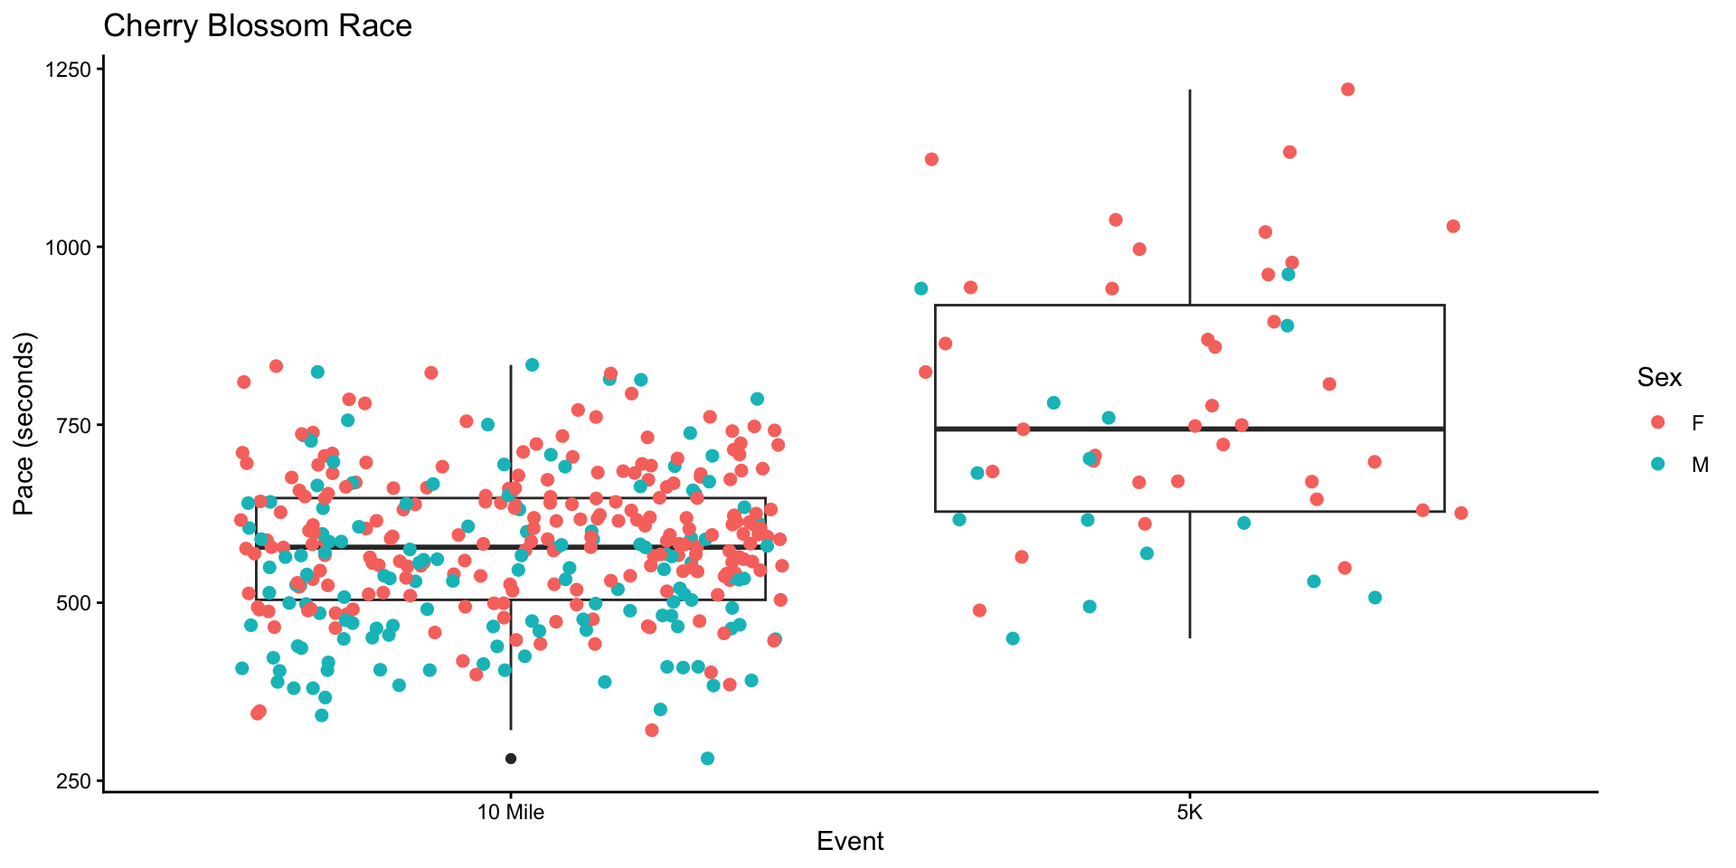
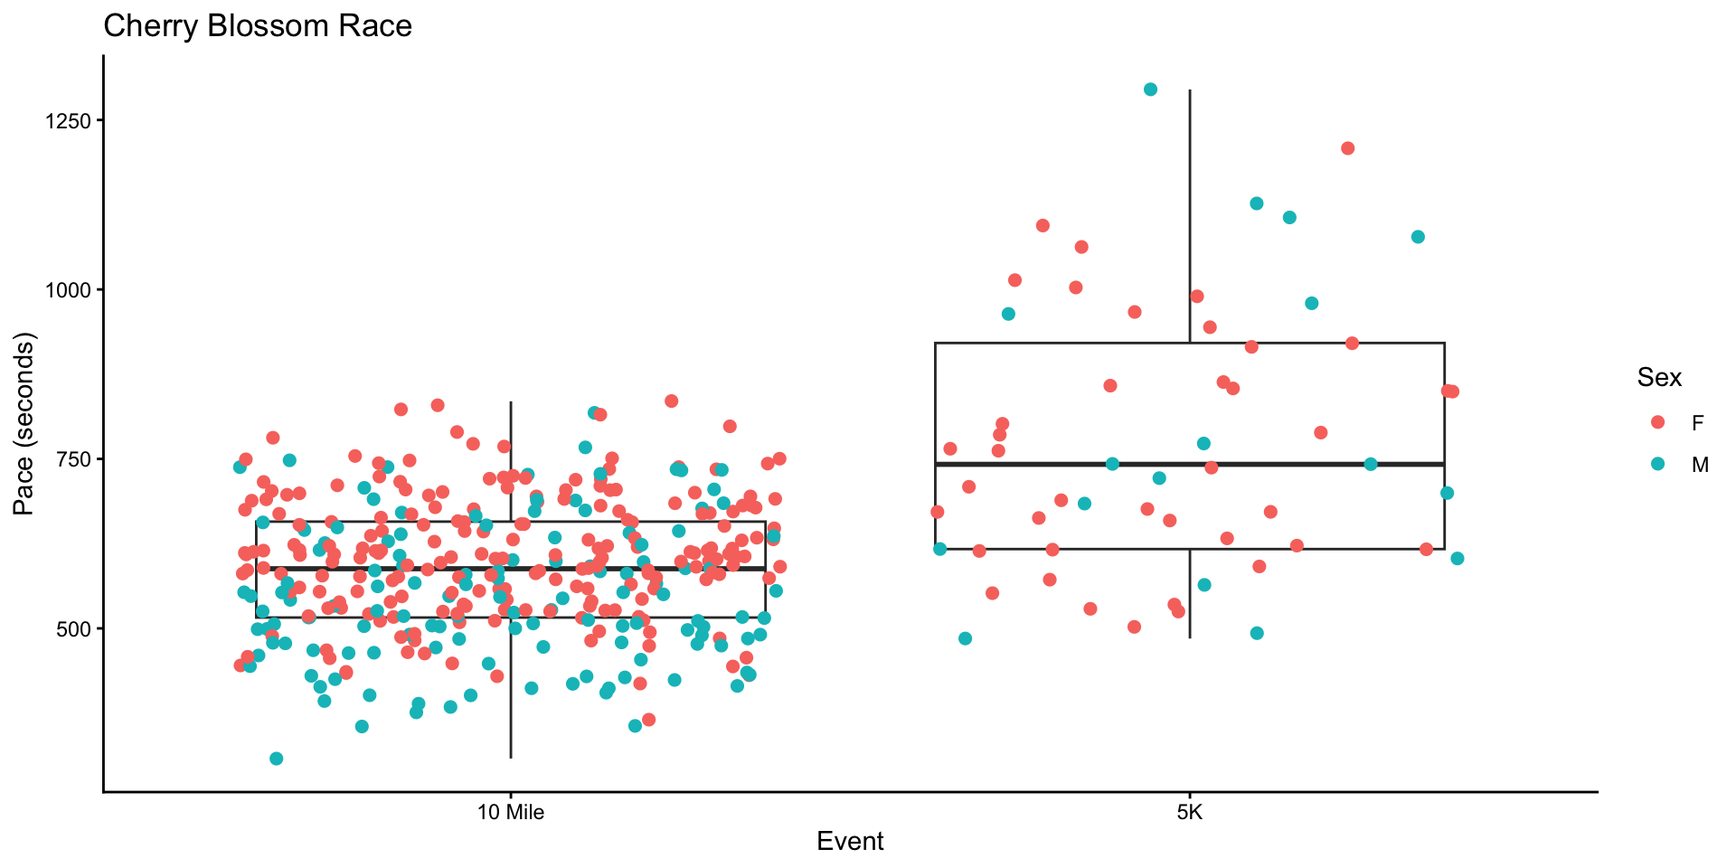
finalizing week 5 slides

diff --git a/getting_started_fall_2026/Session_5.html b/getting_started_fall_2026/Session_5.html
@@ -458,13 +458,13 @@ S. Kelly | Scholar Support and Data Services | Fall 2026
 <div class="cell">
 <div class="sourceCode cell-code" id="cb6"><pre class="sourceCode numberSource r number-lines code-with-copy"><code class="sourceCode r"><span id="cb6-1"><a href=""></a>run17 <span class="sc">|&gt;</span> </span>
 <span id="cb6-2"><a href=""></a>  <span class="fu">group_by</span>(event) <span class="sc">|&gt;</span> </span>
-<span id="cb6-3"><a href=""></a>  <span class="fu">summarize</span>(<span class="at">event_means =</span> <span class="fu">mean</span>(pace_sec, <span class="at">na.rm =</span> T))</span></code><button title="Copy to Clipboard" class="code-copy-button"><i class="bi"></i></button></pre></div>
+<span id="cb6-3"><a href=""></a>  <span class="fu">summarize</span>(<span class="at">event_mean_pace =</span> <span class="fu">mean</span>(pace_sec, <span class="at">na.rm =</span> T))</span></code><button title="Copy to Clipboard" class="code-copy-button"><i class="bi"></i></button></pre></div>
 <div class="cell-output cell-output-stdout">
 <pre><code># A tibble: 2 × 2
-  event   event_means
-  &lt;chr&gt;         &lt;dbl&gt;
-1 10 Mile        586.
-2 5K             763.</code></pre>
+  event   event_mean_pace
+  &lt;chr&gt;             &lt;dbl&gt;
+1 10 Mile            586.
+2 5K                 763.</code></pre>
 </div>
 </div>
 </section>
@@ -507,19 +507,17 @@ S. Kelly | Scholar Support and Data Services | Fall 2026
 <img data-src="Session_5_files/figure-revealjs/unnamed-chunk-7-1.png" width="960" class="r-stretch"></section>
 <section id="what-are-our-grouped-means" class="slide level2">
 <h2>What are our grouped means?</h2>
-<p>Let’s figure out the overall pace for each event.</p>
+<p>Let’s recall the overall pace for each event.</p>
 <div class="cell">
-<div class="sourceCode cell-code" id="cb12"><pre class="sourceCode numberSource r number-lines code-with-copy"><code class="sourceCode r"><span id="cb12-1"><a href=""></a><span class="fu">set.seed</span>(<span class="dv">7834</span>)</span>
-<span id="cb12-2"><a href=""></a>run17 <span class="sc">|&gt;</span> </span>
-<span id="cb12-3"><a href=""></a>  <span class="fu">slice_sample</span>(<span class="at">n =</span> <span class="dv">400</span>) <span class="sc">|&gt;</span></span>
-<span id="cb12-4"><a href=""></a>  <span class="fu">group_by</span>(event) <span class="sc">|&gt;</span> </span>
-<span id="cb12-5"><a href=""></a>  <span class="fu">summarize</span>(<span class="at">group_mean_pace =</span> <span class="fu">mean</span>(pace_sec, <span class="at">na.rm =</span> T))</span></code><button title="Copy to Clipboard" class="code-copy-button"><i class="bi"></i></button></pre></div>
+<div class="sourceCode cell-code" id="cb12"><pre class="sourceCode numberSource r number-lines code-with-copy"><code class="sourceCode r"><span id="cb12-1"><a href=""></a>run17 <span class="sc">|&gt;</span> </span>
+<span id="cb12-2"><a href=""></a>  <span class="fu">group_by</span>(event) <span class="sc">|&gt;</span> </span>
+<span id="cb12-3"><a href=""></a>  <span class="fu">summarize</span>(<span class="at">event_mean_pace =</span> <span class="fu">mean</span>(pace_sec, <span class="at">na.rm =</span> T))</span></code><button title="Copy to Clipboard" class="code-copy-button"><i class="bi"></i></button></pre></div>
 <div class="cell-output cell-output-stdout">
 <pre><code># A tibble: 2 × 2
-  event   group_mean_pace
+  event   event_mean_pace
   &lt;chr&gt;             &lt;dbl&gt;
-1 10 Mile            587.
-2 5K                 778.</code></pre>
+1 10 Mile            586.
+2 5K                 763.</code></pre>
 </div>
 </div>
 </section>
@@ -530,8 +528,8 @@ S. Kelly | Scholar Support and Data Services | Fall 2026
 <span id="cb14-2"><a href=""></a>run17 <span class="sc">|&gt;</span> </span>
 <span id="cb14-3"><a href=""></a>  <span class="fu">slice_sample</span>(<span class="at">n =</span> <span class="dv">400</span>) <span class="sc">|&gt;</span> </span>
 <span id="cb14-4"><a href=""></a>  <span class="fu">ggplot</span>(<span class="fu">aes</span>(<span class="at">x =</span> event, <span class="at">y =</span> pace_sec)) <span class="sc">+</span> <span class="fu">geom_boxplot</span>(<span class="at">fill =</span> <span class="st">"cadetblue"</span>) <span class="sc">+</span></span>
-<span id="cb14-5"><a href=""></a>  <span class="fu">geom_hline</span>(<span class="at">yintercept =</span> <span class="dv">587</span>, <span class="at">color =</span> <span class="st">"maroon"</span>, <span class="at">size =</span> <span class="dv">2</span>) <span class="sc">+</span> </span>
-<span id="cb14-6"><a href=""></a>  <span class="fu">geom_hline</span>(<span class="at">yintercept =</span> <span class="dv">778</span>, <span class="at">color =</span> <span class="st">"orange"</span>, <span class="at">size =</span> <span class="dv">2</span>) </span></code><button title="Copy to Clipboard" class="code-copy-button"><i class="bi"></i></button></pre></div>
+<span id="cb14-5"><a href=""></a>  <span class="fu">geom_hline</span>(<span class="at">yintercept =</span> <span class="dv">586</span>, <span class="at">color =</span> <span class="st">"maroon"</span>, <span class="at">size =</span> <span class="dv">2</span>) <span class="sc">+</span> </span>
+<span id="cb14-6"><a href=""></a>  <span class="fu">geom_hline</span>(<span class="at">yintercept =</span> <span class="dv">763</span>, <span class="at">color =</span> <span class="st">"orange"</span>, <span class="at">size =</span> <span class="dv">2</span>) </span></code><button title="Copy to Clipboard" class="code-copy-button"><i class="bi"></i></button></pre></div>
 
 </div>
 <img data-src="Session_5_files/figure-revealjs/unnamed-chunk-9-1.png" width="960" class="r-stretch"></section>
@@ -550,48 +548,53 @@ S. Kelly | Scholar Support and Data Services | Fall 2026
 <section id="lets-add-the-data-points" class="slide level2">
 <h2>Let’s add the data points</h2>
 <div class="cell">
-<div class="sourceCode cell-code" id="cb16"><pre class="sourceCode numberSource r number-lines code-with-copy"><code class="sourceCode r"><span id="cb16-1"><a href=""></a>run17 <span class="sc">|&gt;</span> </span>
-<span id="cb16-2"><a href=""></a>  <span class="fu">slice_sample</span>(<span class="at">n =</span> <span class="dv">400</span>) <span class="sc">|&gt;</span> </span>
-<span id="cb16-3"><a href=""></a>  <span class="fu">ggplot</span>(<span class="fu">aes</span>(<span class="at">x =</span> event, <span class="at">y =</span> pace_sec)) <span class="sc">+</span> <span class="fu">geom_boxplot</span>(<span class="at">fill =</span> <span class="st">"cadetblue"</span>) <span class="sc">+</span> </span>
-<span id="cb16-4"><a href=""></a>  <span class="fu">geom_jitter</span>()</span></code><button title="Copy to Clipboard" class="code-copy-button"><i class="bi"></i></button></pre></div>
+<div class="sourceCode cell-code" id="cb16"><pre class="sourceCode numberSource r number-lines code-with-copy"><code class="sourceCode r"><span id="cb16-1"><a href=""></a><span class="fu">set.seed</span>(<span class="dv">7834</span>)</span>
+<span id="cb16-2"><a href=""></a>run17 <span class="sc">|&gt;</span> </span>
+<span id="cb16-3"><a href=""></a>  <span class="fu">slice_sample</span>(<span class="at">n =</span> <span class="dv">400</span>) <span class="sc">|&gt;</span> </span>
+<span id="cb16-4"><a href=""></a>  <span class="fu">ggplot</span>(<span class="fu">aes</span>(<span class="at">x =</span> event, <span class="at">y =</span> pace_sec)) <span class="sc">+</span> <span class="fu">geom_boxplot</span>(<span class="at">fill =</span> <span class="st">"cadetblue"</span>) <span class="sc">+</span> </span>
+<span id="cb16-5"><a href=""></a>  <span class="fu">geom_jitter</span>() <span class="sc">+</span> </span>
+<span id="cb16-6"><a href=""></a>  <span class="fu">geom_point</span>(<span class="at">stat =</span> <span class="st">"summary"</span>, <span class="at">shape =</span> <span class="dv">23</span>, <span class="at">size =</span> <span class="dv">7</span>, <span class="at">fill =</span> <span class="st">"maroon"</span>)</span></code><button title="Copy to Clipboard" class="code-copy-button"><i class="bi"></i></button></pre></div>
 
 </div>
 <img data-src="Session_5_files/figure-revealjs/unnamed-chunk-11-1.png" width="960" class="r-stretch"></section>
 <section id="lets-add-color-by-sex" class="slide level2">
 <h2>Let’s add color by sex</h2>
 <div class="cell">
-<div class="sourceCode cell-code" id="cb17"><pre class="sourceCode numberSource r number-lines code-with-copy"><code class="sourceCode r"><span id="cb17-1"><a href=""></a>run17 <span class="sc">|&gt;</span> </span>
-<span id="cb17-2"><a href=""></a>  <span class="fu">slice_sample</span>(<span class="at">n =</span> <span class="dv">400</span>) <span class="sc">|&gt;</span> </span>
-<span id="cb17-3"><a href=""></a>  <span class="fu">ggplot</span>(<span class="fu">aes</span>(<span class="at">x =</span> event, <span class="at">y =</span> pace_sec)) <span class="sc">+</span></span>
-<span id="cb17-4"><a href=""></a>  <span class="fu">geom_boxplot</span>(<span class="at">fill =</span> <span class="st">"transparent"</span>) <span class="sc">+</span> </span>
-<span id="cb17-5"><a href=""></a>  <span class="fu">geom_jitter</span>(<span class="fu">aes</span>(<span class="at">color =</span> sex), <span class="at">size =</span> <span class="dv">2</span>) </span></code><button title="Copy to Clipboard" class="code-copy-button"><i class="bi"></i></button></pre></div>
+<div class="sourceCode cell-code" id="cb17"><pre class="sourceCode numberSource r number-lines code-with-copy"><code class="sourceCode r"><span id="cb17-1"><a href=""></a><span class="fu">set.seed</span>(<span class="dv">7834</span>)</span>
+<span id="cb17-2"><a href=""></a>run17 <span class="sc">|&gt;</span> </span>
+<span id="cb17-3"><a href=""></a>  <span class="fu">slice_sample</span>(<span class="at">n =</span> <span class="dv">400</span>) <span class="sc">|&gt;</span> </span>
+<span id="cb17-4"><a href=""></a>  <span class="fu">ggplot</span>(<span class="fu">aes</span>(<span class="at">x =</span> event, <span class="at">y =</span> pace_sec)) <span class="sc">+</span></span>
+<span id="cb17-5"><a href=""></a>  <span class="fu">geom_boxplot</span>(<span class="at">fill =</span> <span class="st">"transparent"</span>) <span class="sc">+</span> </span>
+<span id="cb17-6"><a href=""></a>  <span class="fu">geom_jitter</span>(<span class="fu">aes</span>(<span class="at">color =</span> sex), <span class="at">size =</span> <span class="dv">2</span>) </span></code><button title="Copy to Clipboard" class="code-copy-button"><i class="bi"></i></button></pre></div>
 
 </div>
 <img data-src="Session_5_files/figure-revealjs/unnamed-chunk-12-1.png" width="960" class="r-stretch"></section>
 <section id="now-labels-and-a-title" class="slide level2">
 <h2>Now labels and a title</h2>
 <div class="cell">
-<div class="sourceCode cell-code" id="cb18"><pre class="sourceCode numberSource r number-lines code-with-copy"><code class="sourceCode r"><span id="cb18-1"><a href=""></a>run17 <span class="sc">|&gt;</span> </span>
-<span id="cb18-2"><a href=""></a>  <span class="fu">slice_sample</span>(<span class="at">n =</span> <span class="dv">400</span>) <span class="sc">|&gt;</span> </span>
-<span id="cb18-3"><a href=""></a>  <span class="fu">ggplot</span>(<span class="fu">aes</span>(<span class="at">x =</span> event, <span class="at">y =</span> pace_sec)) <span class="sc">+</span></span>
-<span id="cb18-4"><a href=""></a>  <span class="fu">geom_boxplot</span>(<span class="at">fill =</span> <span class="st">"transparent"</span>) <span class="sc">+</span> </span>
-<span id="cb18-5"><a href=""></a>  <span class="fu">geom_jitter</span>(<span class="fu">aes</span>(<span class="at">color =</span> sex), <span class="at">size =</span> <span class="dv">2</span>) <span class="sc">+</span></span>
-<span id="cb18-6"><a href=""></a>  <span class="fu">labs</span>(<span class="at">x =</span> <span class="st">"Event"</span>, <span class="at">y =</span> <span class="st">"Pace (seconds)"</span>, </span>
-<span id="cb18-7"><a href=""></a>       <span class="at">title =</span> <span class="st">"Cherry Blossom Race"</span>, <span class="at">color =</span> <span class="st">"Sex"</span>)</span></code><button title="Copy to Clipboard" class="code-copy-button"><i class="bi"></i></button></pre></div>
+<div class="sourceCode cell-code" id="cb18"><pre class="sourceCode numberSource r number-lines code-with-copy"><code class="sourceCode r"><span id="cb18-1"><a href=""></a><span class="fu">set.seed</span>(<span class="dv">7834</span>)</span>
+<span id="cb18-2"><a href=""></a>run17 <span class="sc">|&gt;</span> </span>
+<span id="cb18-3"><a href=""></a>  <span class="fu">slice_sample</span>(<span class="at">n =</span> <span class="dv">400</span>) <span class="sc">|&gt;</span> </span>
+<span id="cb18-4"><a href=""></a>  <span class="fu">ggplot</span>(<span class="fu">aes</span>(<span class="at">x =</span> event, <span class="at">y =</span> pace_sec)) <span class="sc">+</span></span>
+<span id="cb18-5"><a href=""></a>  <span class="fu">geom_boxplot</span>(<span class="at">fill =</span> <span class="st">"transparent"</span>) <span class="sc">+</span> </span>
+<span id="cb18-6"><a href=""></a>  <span class="fu">geom_jitter</span>(<span class="fu">aes</span>(<span class="at">color =</span> sex), <span class="at">size =</span> <span class="dv">2</span>) <span class="sc">+</span></span>
+<span id="cb18-7"><a href=""></a>  <span class="fu">labs</span>(<span class="at">x =</span> <span class="st">"Event"</span>, <span class="at">y =</span> <span class="st">"Pace (seconds)"</span>, </span>
+<span id="cb18-8"><a href=""></a>       <span class="at">title =</span> <span class="st">"Cherry Blossom Race"</span>, <span class="at">color =</span> <span class="st">"Sex"</span>)</span></code><button title="Copy to Clipboard" class="code-copy-button"><i class="bi"></i></button></pre></div>
 
 </div>
 <img data-src="Session_5_files/figure-revealjs/unnamed-chunk-13-1.png" width="960" class="r-stretch"></section>
 <section id="finally-a-quick-theme" class="slide level2">
 <h2>Finally, a quick theme</h2>
 <div class="cell">
-<div class="sourceCode cell-code" id="cb19"><pre class="sourceCode numberSource r number-lines code-with-copy"><code class="sourceCode r"><span id="cb19-1"><a href=""></a>run17 <span class="sc">|&gt;</span> </span>
-<span id="cb19-2"><a href=""></a>  <span class="fu">slice_sample</span>(<span class="at">n =</span> <span class="dv">400</span>) <span class="sc">|&gt;</span> </span>
-<span id="cb19-3"><a href=""></a>  <span class="fu">ggplot</span>(<span class="fu">aes</span>(<span class="at">x =</span> event, <span class="at">y =</span> pace_sec)) <span class="sc">+</span></span>
-<span id="cb19-4"><a href=""></a>  <span class="fu">geom_boxplot</span>(<span class="at">fill =</span> <span class="st">"transparent"</span>) <span class="sc">+</span> </span>
-<span id="cb19-5"><a href=""></a>  <span class="fu">geom_jitter</span>(<span class="fu">aes</span>(<span class="at">color =</span> sex), <span class="at">size =</span> <span class="dv">2</span>) <span class="sc">+</span></span>
-<span id="cb19-6"><a href=""></a>  <span class="fu">labs</span>(<span class="at">x =</span> <span class="st">"Event"</span>, <span class="at">y =</span> <span class="st">"Pace (seconds)"</span>, </span>
-<span id="cb19-7"><a href=""></a>       <span class="at">title =</span> <span class="st">"Cherry Blossom Race"</span>, <span class="at">color =</span> <span class="st">"Sex"</span>) <span class="sc">+</span> </span>
-<span id="cb19-8"><a href=""></a>  <span class="fu">theme_classic</span>()</span></code><button title="Copy to Clipboard" class="code-copy-button"><i class="bi"></i></button></pre></div>
+<div class="sourceCode cell-code" id="cb19"><pre class="sourceCode numberSource r number-lines code-with-copy"><code class="sourceCode r"><span id="cb19-1"><a href=""></a><span class="fu">set.seed</span>(<span class="dv">7834</span>)</span>
+<span id="cb19-2"><a href=""></a>run17 <span class="sc">|&gt;</span> </span>
+<span id="cb19-3"><a href=""></a>  <span class="fu">slice_sample</span>(<span class="at">n =</span> <span class="dv">400</span>) <span class="sc">|&gt;</span> </span>
+<span id="cb19-4"><a href=""></a>  <span class="fu">ggplot</span>(<span class="fu">aes</span>(<span class="at">x =</span> event, <span class="at">y =</span> pace_sec)) <span class="sc">+</span></span>
+<span id="cb19-5"><a href=""></a>  <span class="fu">geom_boxplot</span>(<span class="at">fill =</span> <span class="st">"transparent"</span>) <span class="sc">+</span> </span>
+<span id="cb19-6"><a href=""></a>  <span class="fu">geom_jitter</span>(<span class="fu">aes</span>(<span class="at">color =</span> sex), <span class="at">size =</span> <span class="dv">2</span>) <span class="sc">+</span></span>
+<span id="cb19-7"><a href=""></a>  <span class="fu">labs</span>(<span class="at">x =</span> <span class="st">"Event"</span>, <span class="at">y =</span> <span class="st">"Pace (seconds)"</span>, </span>
+<span id="cb19-8"><a href=""></a>       <span class="at">title =</span> <span class="st">"Cherry Blossom Race"</span>, <span class="at">color =</span> <span class="st">"Sex"</span>) <span class="sc">+</span> </span>
+<span id="cb19-9"><a href=""></a>  <span class="fu">theme_classic</span>()</span></code><button title="Copy to Clipboard" class="code-copy-button"><i class="bi"></i></button></pre></div>
 
 </div>
 <img data-src="Session_5_files/figure-revealjs/unnamed-chunk-14-1.png" width="960" class="r-stretch"></section>
@@ -656,7 +659,7 @@ S. Kelly | Scholar Support and Data Services | Fall 2026
 <h2>Basic Boxplot</h2>
 <div class="cell">
 <div class="sourceCode cell-code" id="cb26"><pre class="sourceCode numberSource r number-lines code-with-copy"><code class="sourceCode r"><span id="cb26-1"><a href=""></a>county <span class="sc">|&gt;</span> </span>
-<span id="cb26-2"><a href=""></a>  <span class="fu">ggplot</span>(<span class="fu">aes</span>(<span class="at">x =</span> state, <span class="at">y =</span> median_hh_income)) <span class="sc">+</span> <span class="fu">geom_boxplot</span>()</span></code><button title="Copy to Clipboard" class="code-copy-button"><i class="bi"></i></button></pre></div>
+<span id="cb26-2"><a href=""></a>  <span class="fu">ggplot</span>(<span class="fu">aes</span>(<span class="at">x =</span> state, <span class="at">y =</span> per_capita_income)) <span class="sc">+</span> <span class="fu">geom_boxplot</span>()</span></code><button title="Copy to Clipboard" class="code-copy-button"><i class="bi"></i></button></pre></div>
 
 </div>
 <img data-src="Session_5_files/figure-revealjs/unnamed-chunk-18-1.png" width="960" class="r-stretch"></section>
@@ -664,21 +667,42 @@ S. Kelly | Scholar Support and Data Services | Fall 2026
 <h2>You can flip the coordinates</h2>
 <div class="cell">
 <div class="sourceCode cell-code" id="cb27"><pre class="sourceCode numberSource r number-lines code-with-copy"><code class="sourceCode r"><span id="cb27-1"><a href=""></a>county <span class="sc">|&gt;</span> </span>
-<span id="cb27-2"><a href=""></a>  <span class="fu">ggplot</span>(<span class="fu">aes</span>(<span class="at">x =</span> state, <span class="at">y =</span> median_hh_income)) <span class="sc">+</span> <span class="fu">geom_boxplot</span>() <span class="sc">+</span> </span>
-<span id="cb27-3"><a href=""></a>  <span class="fu">coord_flip</span>() <span class="sc">+</span> <span class="fu">labs</span>(<span class="at">x =</span> <span class="cn">NULL</span>, <span class="at">y =</span> <span class="st">"Household Income"</span>)</span></code><button title="Copy to Clipboard" class="code-copy-button"><i class="bi"></i></button></pre></div>
+<span id="cb27-2"><a href=""></a>  <span class="fu">ggplot</span>(<span class="fu">aes</span>(<span class="at">x =</span> state, <span class="at">y =</span> per_capita_income)) <span class="sc">+</span> </span>
+<span id="cb27-3"><a href=""></a>  <span class="fu">geom_boxplot</span>(<span class="at">fill =</span> <span class="st">"lightblue"</span>) <span class="sc">+</span> </span>
+<span id="cb27-4"><a href=""></a>  <span class="fu">coord_flip</span>() </span></code><button title="Copy to Clipboard" class="code-copy-button"><i class="bi"></i></button></pre></div>
 
 </div>
 <img data-src="Session_5_files/figure-revealjs/unnamed-chunk-19-1.png" width="960" class="r-stretch"></section>
 <section id="lets-reorder-the-plot" class="slide level2">
 <h2>Let’s reorder the plot</h2>
 <div class="cell">
-<div class="sourceCode cell-code" id="cb28"><pre class="sourceCode numberSource r number-lines code-with-copy"><code class="sourceCode r"><span id="cb28-1"><a href=""></a>county  <span class="sc">|&gt;</span> </span>
-<span id="cb28-2"><a href=""></a>  <span class="fu">ggplot</span>(<span class="fu">aes</span>(<span class="at">x =</span> <span class="fu">reorder</span>(state, median_hh_income), </span>
-<span id="cb28-3"><a href=""></a>                       <span class="at">y =</span> median_hh_income)) <span class="sc">+</span> <span class="fu">geom_boxplot</span>() <span class="sc">+</span> </span>
-<span id="cb28-4"><a href=""></a>  <span class="fu">coord_flip</span>() <span class="sc">+</span> <span class="fu">labs</span>(<span class="at">x =</span> <span class="cn">NULL</span>, <span class="at">y =</span> <span class="st">"Household Income"</span>)</span></code><button title="Copy to Clipboard" class="code-copy-button"><i class="bi"></i></button></pre></div>
+<div class="sourceCode cell-code" id="cb28"><pre class="sourceCode numberSource r number-lines code-with-copy"><code class="sourceCode r"><span id="cb28-1"><a href=""></a>county <span class="sc">|&gt;</span> </span>
+<span id="cb28-2"><a href=""></a>  <span class="fu">ggplot</span>(<span class="fu">aes</span>(<span class="at">x =</span> <span class="fu">reorder</span>(state, per_capita_income), </span>
+<span id="cb28-3"><a href=""></a>             <span class="at">y =</span> per_capita_income)) <span class="sc">+</span> </span>
+<span id="cb28-4"><a href=""></a>  <span class="fu">geom_boxplot</span>(<span class="at">fill =</span> <span class="st">"lightblue"</span>) <span class="sc">+</span> </span>
+<span id="cb28-5"><a href=""></a>  <span class="fu">coord_flip</span>()</span></code><button title="Copy to Clipboard" class="code-copy-button"><i class="bi"></i></button></pre></div>
 
 </div>
 <img data-src="Session_5_files/figure-revealjs/unnamed-chunk-20-1.png" width="960" class="r-stretch"></section>
+<section id="but-where-is-colorado" class="slide level2">
+<h2>But where is Colorado?</h2>
+
+<img data-src="Session_5_files/figure-revealjs/unnamed-chunk-21-1.png" width="960" class="r-stretch"></section>
+<section id="but-where-is-colorado-1" class="slide level2">
+<h2>But where is Colorado?</h2>
+<div class="cell">
+<div class="sourceCode cell-code" id="cb29"><pre class="sourceCode numberSource r number-lines code-with-copy"><code class="sourceCode r"><span id="cb29-1"><a href=""></a>county <span class="sc">|&gt;</span> </span>
+<span id="cb29-2"><a href=""></a>  <span class="fu">mutate</span>(<span class="at">highlight =</span> <span class="fu">if_else</span>(state <span class="sc">==</span> <span class="st">"Colorado"</span>, <span class="st">"Colorado"</span>, <span class="st">"Other"</span>)) <span class="sc">|&gt;</span></span>
+<span id="cb29-3"><a href=""></a>  <span class="fu">ggplot</span>(<span class="fu">aes</span>(<span class="at">x =</span> <span class="fu">reorder</span>(state, per_capita_income), </span>
+<span id="cb29-4"><a href=""></a>             <span class="at">y =</span> per_capita_income, <span class="at">fill =</span> highlight)) <span class="sc">+</span> </span>
+<span id="cb29-5"><a href=""></a>  <span class="fu">geom_boxplot</span>() <span class="sc">+</span> </span>
+<span id="cb29-6"><a href=""></a>  <span class="fu">coord_flip</span>() <span class="sc">+</span></span>
+<span id="cb29-7"><a href=""></a>  <span class="fu">scale_fill_manual</span>(<span class="at">values =</span> <span class="fu">c</span>(<span class="st">"Colorado"</span> <span class="ot">=</span> <span class="st">"maroon"</span>, </span>
+<span id="cb29-8"><a href=""></a>                               <span class="st">"Other"</span> <span class="ot">=</span> <span class="st">"lightblue"</span>)) <span class="sc">+</span> </span>
+<span id="cb29-9"><a href=""></a>  <span class="fu">labs</span>(<span class="at">x =</span> <span class="cn">NULL</span>, <span class="at">y =</span> <span class="st">"Per capita (per person) income"</span>) <span class="sc">+</span></span>
+<span id="cb29-10"><a href=""></a>    <span class="fu">theme_classic</span>() <span class="sc">+</span> <span class="fu">theme</span>(<span class="at">legend.position =</span> <span class="st">"none"</span>)</span></code><button title="Copy to Clipboard" class="code-copy-button"><i class="bi"></i></button></pre></div>
+</div>
+</section>
 <section id="but-i-want-to-learn-more" class="slide level2">
 <h2>But I want to learn more!</h2>
 <p>R for Data Science | Hadley Wickham | Creator of Tidyverse</p>
